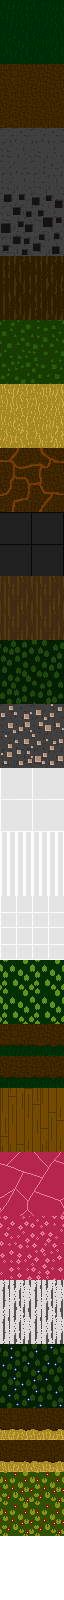
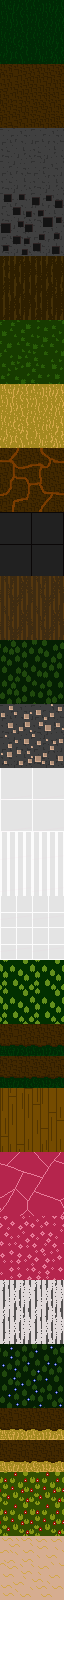
Added sand

diff --git a/core/src/worldgen.rs b/core/src/worldgen.rs
@@ -58,13 +58,26 @@ pub fn chunk(world: &Chungus, pos: IVec3, reactor: &Reactor<Message>) -> ChunkBl
             let snow_y = if y > 96.0 { (y * 2.0 + 2.0) as i32 } else { 0 };
             r.set_pillar(1, [x, stone_y - py, z].into(), grass_y - py);
             if grass_y > (stone_y + 4) {
-                r.set_pillar(2, [x, grass_y - py - 1, z].into(), grass_y - py);
+                let block = if grass_y > -32 { 2 } else { 23 };
+                r.set_pillar(block, [x, grass_y - py - 1, z].into(), grass_y - py);
             } else {
                 r.set_pillar(13, [x, stone_y - py, z].into(), snow_y - py);
             }
             r.set_pillar(3, [x, (-(1 << 30)) - py, z].into(), stone_y - py);
             if grass_y > (stone_y + 8) {
-                if rng.gen_range(1..400) == 1 {
+                if grass_y < -33 {
+                    if rng.gen_range(1..2000) == 1 {
+                        let i = rng.gen_range(0..assets.rocks.len());
+                        let pos = IVec3::new(
+                            x - assets.rocks[i].size.x / 2,
+                            grass_y - py - 2,
+                            z - assets.rocks[i].size.z / 2,
+                        );
+                        if assets.rocks[i].fits(pos) {
+                            r.blit(&assets.rocks[i], pos);
+                        }
+                    }
+                } else if rng.gen_range(1..400) == 1 {
                     let i = rng.gen_range(0..assets.bushes.len());
                     let pos = IVec3::new(
                         x - assets.bushes[i].size.x / 2,

diff --git a/particles/src/lib.rs b/particles/src/lib.rs
@@ -191,7 +191,12 @@ impl ParticleMesh {
 
     fn fx_hurt(&mut self, pos: Vec3, color: [RGBA8; 2], part_count: usize) {
         let pos = pos;
-        let pos = pos + Vec3::new(self.rng.gen_range(-0.5..=0.5), self.rng.gen_range(-0.5..=0.5), self.rng.gen_range(-0.5..=0.5));
+        let pos = pos
+            + Vec3::new(
+                self.rng.gen_range(-0.5..=0.5),
+                self.rng.gen_range(-0.5..=0.5),
+                self.rng.gen_range(-0.5..=0.5),
+            );
         let pos = pos.extend(80.0);
         for color in color.iter() {
             let color: Srgb = Srgb::from_components((
@@ -212,11 +217,7 @@ impl ParticleMesh {
                 let color: [u8; 3] = color.into_format().into_raw();
                 let color = [color[0], color[1], color[2], 0xFF];
 
-                self.particles.push(ParticleVertex {
-                    pos,
-                    vel,
-                    color,
-                });
+                self.particles.push(ParticleVertex { pos, vel, color });
             }
         }
     }

diff --git a/core/src/block_type.rs b/core/src/block_type.rs
@@ -310,6 +310,13 @@ impl BlockType {
                     RGBA8::new(0x94, 0x83, 0x12, 0xFF),
                 )
                 .with_block_health(100),
+            BlockType::new("Sand")
+                .with_texture(24)
+                .with_colors(
+                    RGBA8::new(0xEC, 0xD1, 0x95, 0xFF),
+                    RGBA8::new(0xD3, 0xA7, 0x48, 0xFF),
+                )
+                .with_block_health(140),
         ]
     }
 }

diff --git a/client/src/state/static_meshes.rs b/client/src/state/static_meshes.rs
@@ -14,7 +14,7 @@ pub struct MeshList {
 
 impl MeshList {
     fn gen_block_meshes(display: &glium::Display, game: &GameState) -> Result<Vec<Mesh>> {
-        let tile_size = 64.0 / 1600.0;
+        let tile_size = 64.0 / 1664.0;
         Ok(game
             .world()
             .blocks
